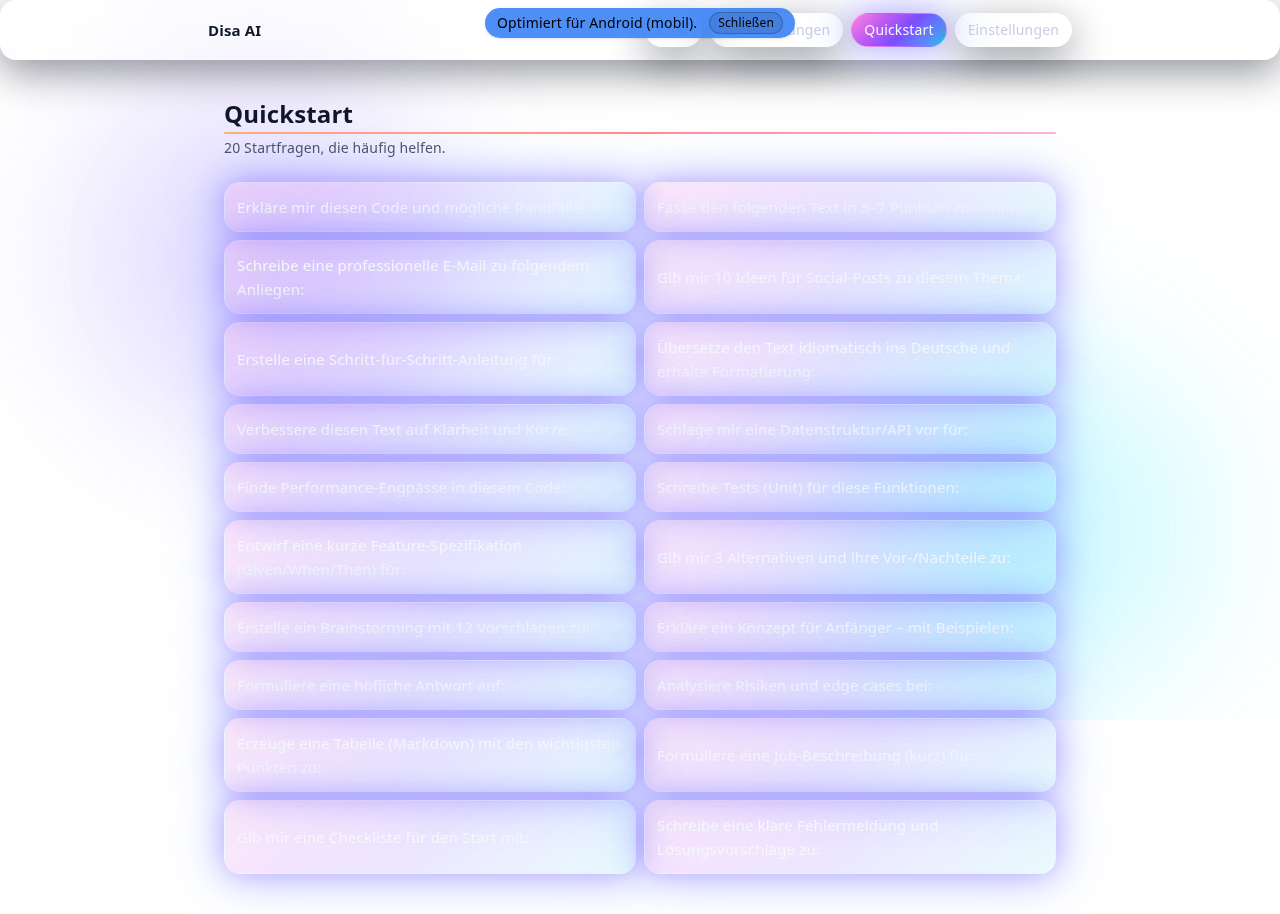
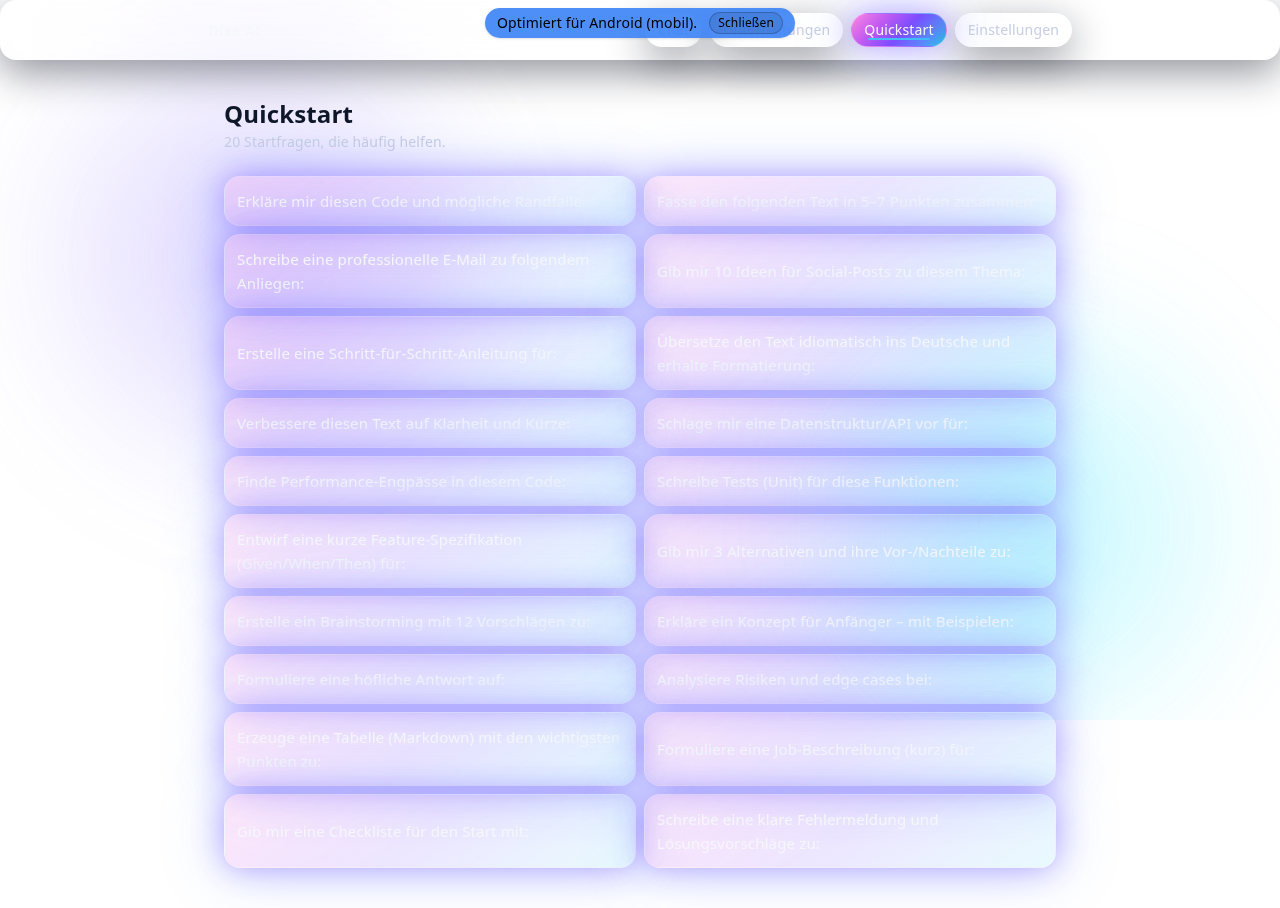
feat(ui): align remaining components with Aurora dark tokens\n\n- replace neutral/white overlays with glass/nav-pill/input utilities\n- update Switch to primary/muted + foreground knob\n- refactor Header, Badges, DevPanel, ConversationsPanel, QuickStyles, PersonaQuickBar, QuickActions, QuickStart/Ch

diff --git a/src/components/ConversationsPanel.tsx b/src/components/ConversationsPanel.tsx
@@ -62,14 +62,14 @@ export default function ConversationsPanel({ open, onClose, currentId, onSelect 
       <aside
         className={`absolute left-0 top-0 h-full w-[320px] p-3 transition-transform md:w-[360px] ${open ? "translate-x-0" : "-translate-x-full"}`}
       >
-        <div className="h-full rounded-2xl bg-gradient-to-tr from-neutral-500/25 via-neutral-500/10 to-transparent p-[1px]">
-          <div className="flex h-full flex-col rounded-2xl border border-white/30 bg-white/65 shadow-lg backdrop-blur-md dark:border-white/10 dark:bg-neutral-900/55">
-            <div className="flex items-center gap-2 border-b border-white/30 px-3 py-2 dark:border-white/10">
+        <div className="h-full rounded-2xl bg-grad-card p-[1px]">
+          <div className="flex h-full flex-col glass">
+            <div className="flex items-center gap-2 border-b border-border px-3 py-2">
               <Icon name="sparkles" width="16" height="16" />
               <div className="text-sm font-medium">Unterhaltungen</div>
               <button
                 onClick={onClose}
-                className="ml-auto rounded border border-neutral-300 px-2 py-1 text-xs hover:bg-neutral-100/60 dark:border-neutral-700 dark:hover:bg-neutral-800/60"
+                className="ml-auto btn-secondary !py-1 !px-2 text-xs"
               >
                 Schließen
               </button>
@@ -79,11 +79,11 @@ export default function ConversationsPanel({ open, onClose, currentId, onSelect 
                 value={q}
                 onChange={(e) => setQ(e.target.value)}
                 placeholder="Suchen…"
-                className="w-full rounded-xl border border-neutral-300/80 bg-white/80 px-3 py-2 transition focus:outline-none focus:ring-2 focus:ring-blue-500/60 focus:ring-offset-2 dark:border-neutral-700/80 dark:bg-neutral-950/40"
+                className="input w-full"
               />
               <button
                 onClick={createNew}
-                className="rounded-xl border border-blue-600 bg-blue-600 px-3 py-2 text-white hover:brightness-110"
+                className="btn-primary px-3 py-2"
               >
                 Neu
               </button>
@@ -96,10 +96,7 @@ export default function ConversationsPanel({ open, onClose, currentId, onSelect 
                 {filtered.map((it) => {
                   const active = it.id === currentId;
                   return (
-                    <li
-                      key={it.id}
-                      className={`rounded-xl border ${active ? "border-blue-600 bg-blue-600/10" : "border-white/30 bg-white/60 dark:border-white/10 dark:bg-neutral-950/40"} backdrop-blur`}
-                    >
+                    <li key={it.id} className={`glass ${active ? "ring-2 ring-ring" : ""}`}>
                       <button
                         onClick={() => onSelect(it.id)}
                         className="w-full px-3 py-2 text-left"
@@ -110,13 +107,13 @@ export default function ConversationsPanel({ open, onClose, currentId, onSelect 
                       <div className="flex gap-2 px-3 pb-2">
                         <button
                           onClick={() => rename(it.id)}
-                          className="rounded-full border border-neutral-300 px-2 py-1 text-xs hover:bg-neutral-100/60 dark:border-neutral-700 dark:hover:bg-neutral-800/60"
+                          className="btn-secondary !py-1 !px-2 text-xs rounded-full"
                         >
                           Umbenennen
                         </button>
                         <button
                           onClick={() => remove(it.id)}
-                          className="rounded-full border border-neutral-300 px-2 py-1 text-xs hover:bg-neutral-100/60 dark:border-neutral-700 dark:hover:bg-neutral-800/60"
+                          className="btn-secondary !py-1 !px-2 text-xs rounded-full"
                         >
                           Löschen
                         </button>

diff --git a/src/components/StickyActions.tsx b/src/components/StickyActions.tsx
@@ -12,23 +12,16 @@ export default function StickyActions({ nsfw, onToggleNSFW, onClearAll }: Props)
   return (
     <div className="sticky top-[48px] z-10 mb-4">
       <div className="rounded-2xl p-[1px]">
-        <div className="rounded-2xl border border-white/30 bg-white/65 shadow-soft backdrop-blur-lg dark:border-white/10 dark:bg-neutral-900/55">
+        <div className="glass">
           <div className="flex flex-wrap items-center gap-2 px-3 py-2 md:px-4">
-            <a
-              href="#/"
-              className="inline-flex items-center gap-2 rounded-full border border-neutral-300 px-3 py-1.5 transition hover:bg-neutral-100/60 dark:border-neutral-700 dark:hover:bg-neutral-800/60"
-            >
+            <a href="#/" className="nav-pill">
               <Icon name="sparkles" width="16" height="16" />
               <span className="text-sm">Neue Unterhaltung</span>
             </a>
             <button
               type="button"
               onClick={onToggleNSFW}
-              className={`inline-flex items-center gap-2 rounded-full border px-3 py-1.5 transition ${
-                nsfw
-                  ? "border-blue-600 bg-blue-600 text-white hover:brightness-110"
-                  : "border-neutral-300 hover:bg-neutral-100/60 dark:border-neutral-700 dark:hover:bg-neutral-800/60"
-              }`}
+              className={nsfw ? "nav-pill nav-pill--active" : "nav-pill"}
             >
               <Icon name="warning" width="16" height="16" />
               <span className="text-sm">{nsfw ? "NSFW an" : "NSFW aus"}</span>
@@ -36,7 +29,7 @@ export default function StickyActions({ nsfw, onToggleNSFW, onClearAll }: Props)
             <button
               type="button"
               onClick={onClearAll}
-              className="inline-flex items-center gap-2 rounded-full border border-neutral-300 px-3 py-1.5 transition hover:bg-neutral-100/60 dark:border-neutral-700 dark:hover:bg-neutral-800/60"
+              className="nav-pill"
             >
               <Icon name="close" width="16" height="16" />
               <span className="text-sm">Alle lokalen Daten löschen</span>

diff --git a/src/components/QuickStyles.tsx b/src/components/QuickStyles.tsx
@@ -20,8 +20,8 @@ export default function QuickStyles(): JSX.Element {
   const selId: string = templateId ?? selected?.id ?? "";
 
   return (
-    <section className="mt-4 rounded-2xl border border-neutral-800 bg-neutral-900/50 p-4">
-      <h3 className="mb-2 text-lg font-semibold text-neutral-100">Schnellzugriff: Stile</h3>
+    <section className="mt-4 glass p-4">
+      <h3 className="mb-2 text-lg font-semibold">Schnellzugriff: Stile</h3>
       <div className="flex flex-wrap gap-2">
         {items.map((t: TemplateLite) => {
           const active = t.id === selId;
@@ -33,12 +33,7 @@ export default function QuickStyles(): JSX.Element {
               onClick={() => {
                 if (setTemplateId) setTemplateId(t.id);
               }}
-              className={[
-                "rounded-full border px-3 py-1.5 text-sm transition",
-                active
-                  ? "border-indigo-600 bg-indigo-600 text-white"
-                  : "border-neutral-700 bg-neutral-900 text-neutral-200 hover:bg-neutral-800",
-              ].join(" ")}
+              className={active ? "nav-pill nav-pill--active" : "nav-pill"}
               title={label}
             >
               {label}
@@ -46,7 +41,7 @@ export default function QuickStyles(): JSX.Element {
           );
         })}
       </div>
-      <p className="mt-3 text-xs text-neutral-400">
+      <p className="mt-3 text-xs text-text-muted">
         Systemprompt aus dem gewählten Stil wird automatisch vorangestellt.
       </p>
     </section>

diff --git a/src/components/Switch.tsx b/src/components/Switch.tsx
@@ -6,9 +6,7 @@ export default function Switch({ checked, onChange, id, label }: Props) {
   return (
     <label htmlFor={id} className="inline-flex cursor-pointer select-none items-center gap-3">
       {label && <span className="text-sm">{label}</span>}
-      <span
-        className={`relative inline-flex h-6 w-11 items-center rounded-full transition ${checked ? "bg-blue-600" : "bg-neutral-300 dark:bg-neutral-700"}`}
-      >
+      <span className={`relative inline-flex h-6 w-11 items-center rounded-full transition ${checked ? "bg-primary" : "bg-muted"}`}>
         <input
           id={id}
           type="checkbox"
@@ -16,9 +14,7 @@ export default function Switch({ checked, onChange, id, label }: Props) {
           checked={checked}
           onChange={(e) => onChange(e.target.checked)}
         />
-        <span
-          className={`inline-block h-5 w-5 transform rounded-full bg-white shadow transition dark:bg-neutral-900 ${checked ? "translate-x-6" : "translate-x-1"}`}
-        />
+        <span className={`inline-block h-5 w-5 transform rounded-full bg-foreground shadow transition ${checked ? "translate-x-6" : "translate-x-1"}`} />
       </span>
     </label>
   );

diff --git a/src/components/DevPanel.tsx b/src/components/DevPanel.tsx
@@ -33,12 +33,12 @@ export default function DevPanel({ open, onClose, samples, costs, lastCost, erro
   const avg = samples.length ? samples.reduce((a, b) => a + b, 0) / samples.length : 0;
   const avgCost = costs.length ? costs.reduce((a, b) => a + b, 0) / costs.length : 0;
   return (
-    <div className="fixed bottom-[calc(64px+env(safe-area-inset-bottom))] right-3 z-30 w-[320px] rounded-xl border border-neutral-300 bg-white/90 shadow-lg backdrop-blur dark:border-neutral-800 dark:bg-neutral-900/90">
-      <div className="flex items-center justify-between border-b border-neutral-200 px-3 py-2 dark:border-neutral-800">
+    <div className="fixed bottom-[calc(64px+env(safe-area-inset-bottom))] right-3 z-30 w-[320px] glass">
+      <div className="flex items-center justify-between border-b border-border px-3 py-2">
         <div className="text-sm font-medium">Dev</div>
         <button
           onClick={onClose}
-          className="rounded border border-neutral-300 px-2 py-1 text-xs hover:bg-neutral-100 dark:border-neutral-700 dark:hover:bg-neutral-800"
+          className="btn-secondary !py-1 !px-2 text-xs"
         >
           Close
         </button>

diff --git a/src/components/hero/HeroCard.tsx b/src/components/hero/HeroCard.tsx
@@ -7,7 +7,7 @@ const HeroCard: React.FC<HeroCardProps> = ({ onStart }) => (
     <div className="card-round glass hero-card relative overflow-hidden p-3 shadow-soft">
       <div className="grad-surface grad-anim absolute inset-0 opacity-30" />
       <div className="relative flex items-center gap-3">
-        <div className="rounded-full bg-white/60 p-1 backdrop-blur-md shadow-soft">
+        <div className="rounded-full glass p-1">
           <Logo className="h-10 w-10" />
         </div>
         <div className="min-w-0">
@@ -16,10 +16,7 @@ const HeroCard: React.FC<HeroCardProps> = ({ onStart }) => (
         </div>
         {/* Optionaler Start-Trigger, wenn übergeben */}
         {onStart ? (
-          <button
-            onClick={onStart}
-            className="ml-auto rounded-[14px] border border-white/30 bg-white/60 px-3 py-1.5 text-sm backdrop-blur-md"
-          >
+          <button onClick={onStart} className="ml-auto btn-secondary !py-1.5 !px-3 text-sm rounded-[14px]">
             Start
           </button>
         ) : null}

diff --git a/src/components/hero/QuickActions.tsx b/src/components/hero/QuickActions.tsx
@@ -41,18 +41,16 @@ function Section({
   if (!actions?.length) return null;
   return (
     <section>
-      <h3 className="mb-2 text-sm font-semibold text-neutral-300">{title}</h3>
+      <h3 className="mb-2 text-sm font-semibold text-text-muted">{title}</h3>
       <div className="grid grid-cols-2 gap-2 sm:grid-cols-3">
         {actions.map((a) => (
           <button
             key={a.id}
-            className="rounded-xl border border-neutral-800 bg-neutral-900/60 px-3 py-2 text-left text-sm text-neutral-200 shadow-soft backdrop-blur hover:bg-neutral-800/60 active:scale-[.99]"
+            className="glass px-3 py-2 text-left text-sm active:scale-[.99]"
             onClick={() => onPick(a.id)}
           >
             <div className="truncate">{a.label}</div>
-            {a.hint ? (
-              <div className="truncate text-xs text-neutral-400">{a.hint}</div>
-            ) : null}
+            {a.hint ? <div className="truncate text-xs text-text-muted">{a.hint}</div> : null}
           </button>
         ))}
       </div>

diff --git a/src/components/SectionCard.tsx b/src/components/SectionCard.tsx
@@ -26,19 +26,13 @@ function wrap(content: React.ReactNode, variant: Variant, accent: Accent) {
               ? "from-pink-500/35 via-rose-500/25 to-transparent"
               : "from-neutral-500/20 via-neutral-500/10 to-transparent";
     return (
-      <div
-        className={`rounded-2xl bg-gradient-to-tr p-[1px] ${ring} transition-transform will-change-transform hover:scale-[1.002]`}
-      >
-        <div className="rounded-2xl border border-white/30 bg-white/65 shadow-sm backdrop-blur-md dark:border-white/10 dark:bg-neutral-900/55">
-          {content}
-        </div>
+      <div className={`rounded-2xl bg-gradient-to-tr p-[1px] ${ring} transition-transform will-change-transform hover:scale-[1.002]`}>
+        <div className="glass">{content}</div>
       </div>
     );
   }
   return (
-    <div className="rounded-2xl border border-neutral-200 bg-white shadow-sm dark:border-neutral-800 dark:bg-neutral-900">
-      {content}
-    </div>
+    <div className="card-solid">{content}</div>
   );
 }
 

diff --git a/src/components/ModelPicker.tsx b/src/components/ModelPicker.tsx
@@ -165,7 +165,7 @@ export default function ModelPicker({ value, onChange, policyFromRole = "any" }:
         </div>
       )}
       {policyFromRole !== "any" && (
-        <div className="rounded-md border border-border bg-background/60 px-3 py-2 text-xs text-neutral-300">
+        <div className="rounded-md border border-border bg-background/60 px-3 py-2 text-xs text-text-muted">
           Rollen-Policy aktiv: <span className="font-medium">{policyFromRole}</span> – Liste entsprechend gefiltert.
         </div>
       )}
@@ -280,4 +280,3 @@ export default function ModelPicker({ value, onChange, policyFromRole = "any" }:
     </section>
   );
 }
-

diff --git a/src/components/PillSelect.tsx b/src/components/PillSelect.tsx
@@ -13,11 +13,7 @@ export default function PillSelect({ value, options, onChange }: Props) {
             key={opt.value}
             type="button"
             onClick={() => onChange(opt.value)}
-            className={`rounded-full px-3 py-1.5 text-sm backdrop-blur-md ${
-              active
-                ? "text-white [background-image:linear-gradient(135deg,#7C4DFF_0%,#5B8CFF_100%)] border border-transparent"
-                : "border border-white/30 bg-white/60 hover:bg-white/70"
-            }`}
+            className={active ? "nav-pill nav-pill--active" : "nav-pill"}
           >
             {opt.label}
           </button>

diff --git a/src/components/PersonaQuickBar.tsx b/src/components/PersonaQuickBar.tsx
@@ -14,12 +14,7 @@ const PersonaQuickBar: React.FC = () => {
         <button
           key={s.id}
           onClick={() => setStyleId(s.id)}
-          className={cn(
-            "rounded-full border px-3 py-1 text-sm transition",
-            styleId === s.id
-              ? "border-violet-500 bg-violet-600/20 text-violet-200"
-              : "border-zinc-700 bg-zinc-800/40 hover:border-violet-500/60",
-          )}
+          className={cn(styleId === s.id ? "nav-pill nav-pill--active" : "nav-pill")}
           aria-pressed={styleId === s.id}
         >
           {s.name}

diff --git a/src/components/HeaderBadges.tsx b/src/components/HeaderBadges.tsx
@@ -6,10 +6,10 @@ export default function HeaderBadges() {
   const modelId = getSelectedModelId() || "auto";
   return (
     <div className="header-sticky flex items-center gap-2">
-      <div className="header-sticky rounded-full border border-white/30 bg-white/60 px-2.5 py-1 text-xs text-foreground backdrop-blur-md">
+      <span className="header-sticky nav-pill text-xs">
         <span className="header-sticky mr-1 opacity-70">Modell</span>
         <span className="header-sticky font-mono">{modelId}</span>
-      </div>
+      </span>
     </div>
   );
 }
